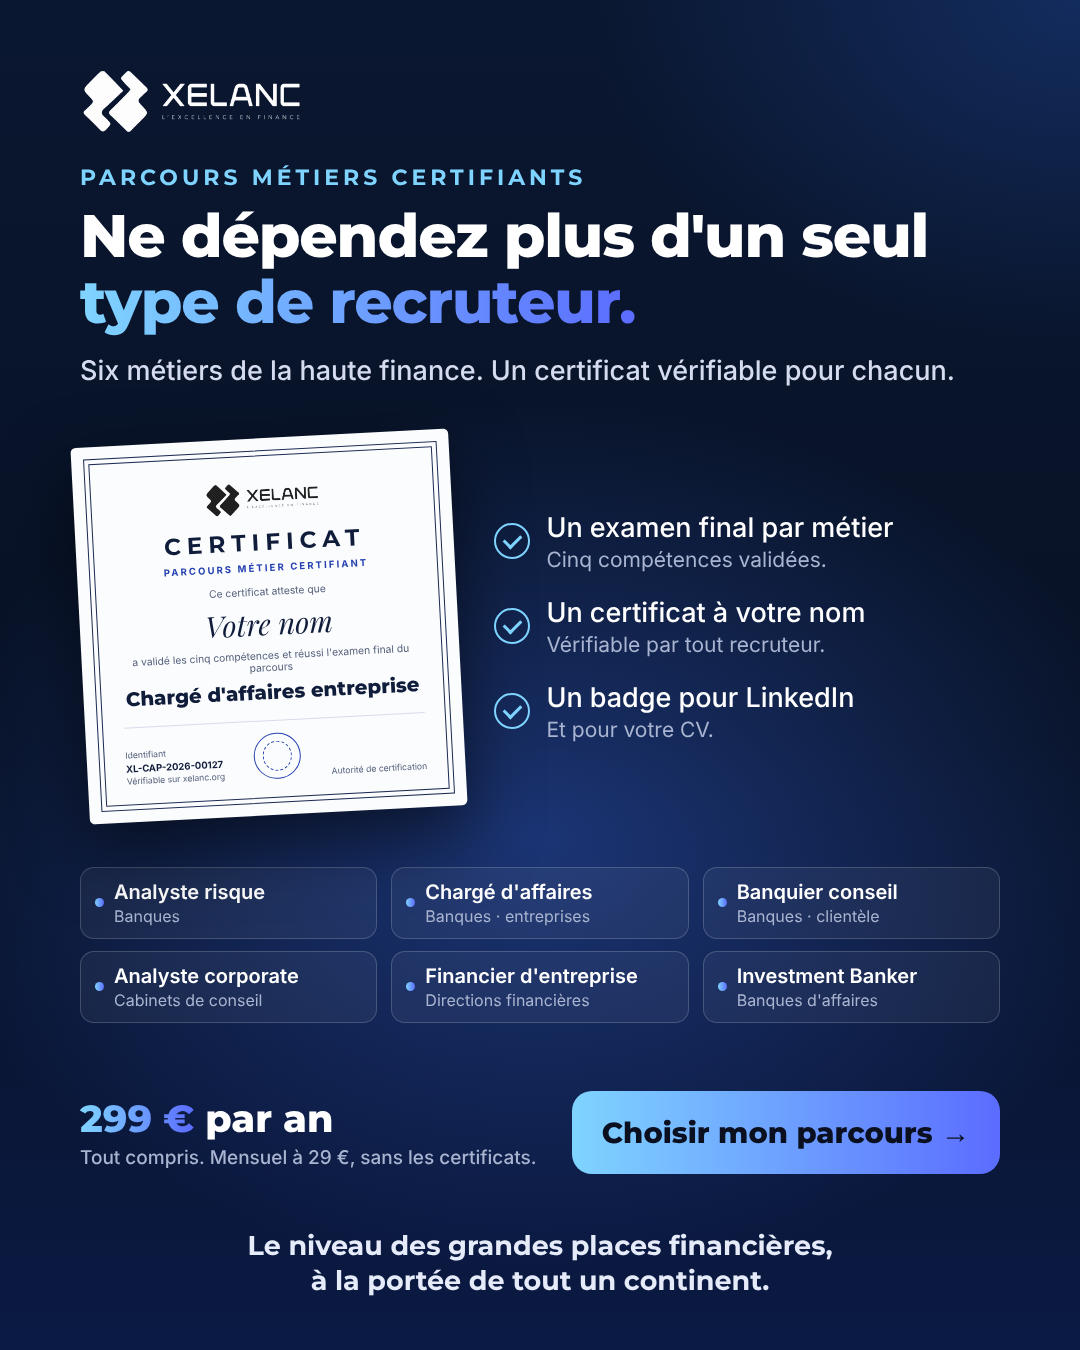
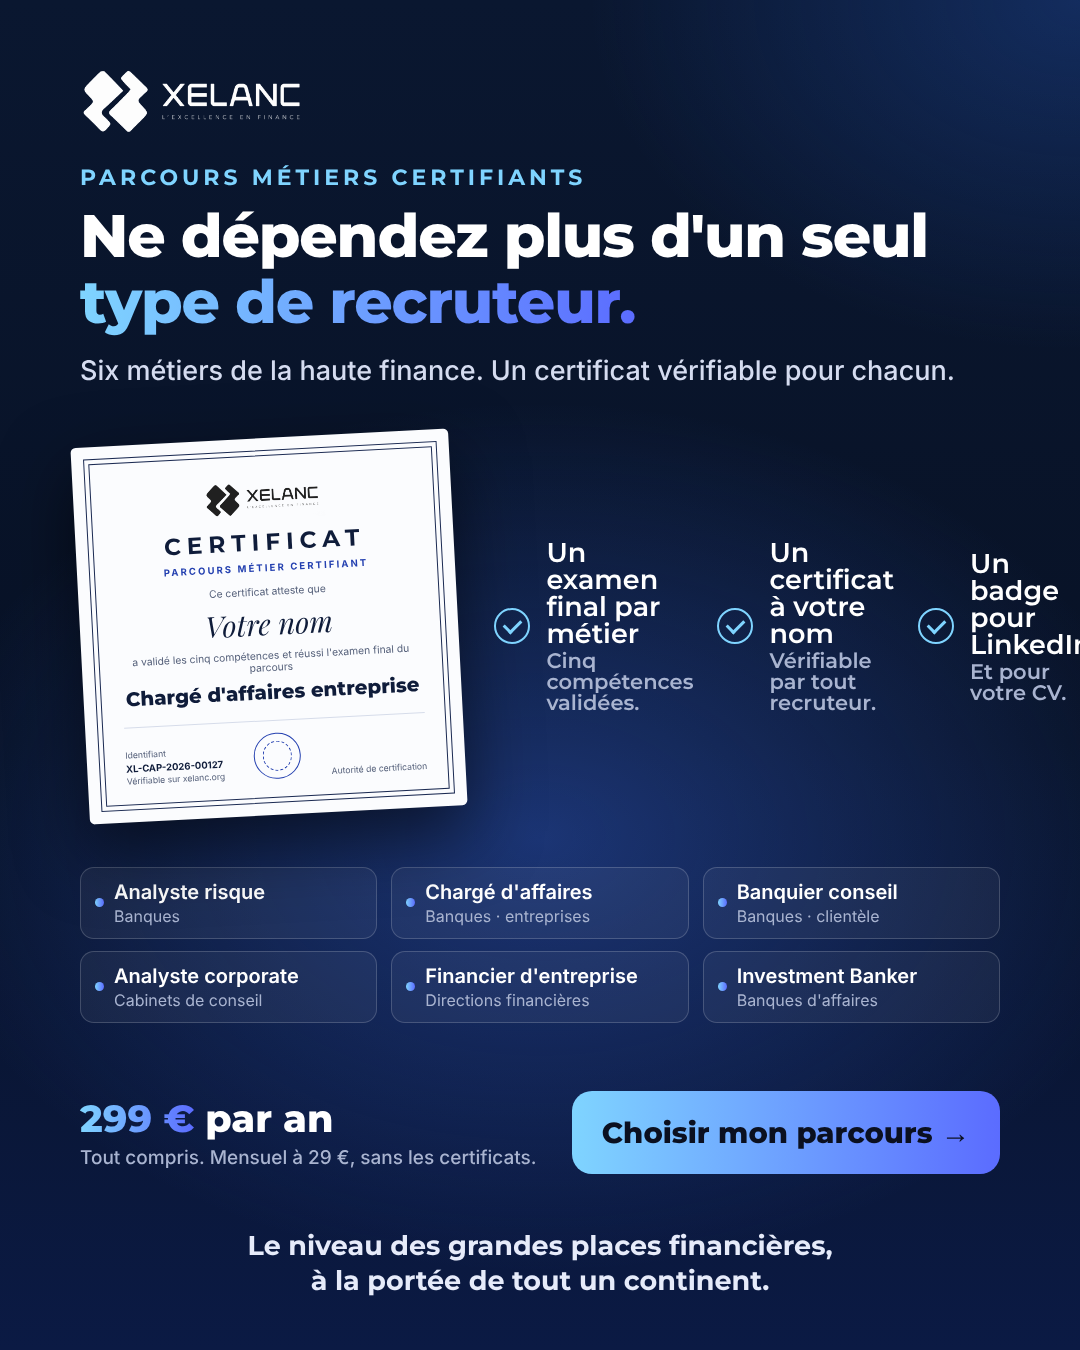
Ajoute le visuel tout inclus contre une seule inscription
Claude-Session: https://claude.ai/code/session_01LXovPUf4KLwN8kSMXa7eXm

Changed region(s): [[0.4583, 0.3733, 0.825, 0.56], [0.8556, 0.4044, 1.0, 0.5289]]

diff --git a/excellence/ads/retargeting/src/v1-tout.html b/excellence/ads/retargeting/src/v1-tout.html
@@ -1,0 +1,35 @@
+<!doctype html>
+<html lang="fr"><head><meta charset="utf-8"><link rel="stylesheet" href="style.css"></head>
+<body class="compact center k">
+  <div class="bx">
+    <div class="bx-logo"><img src="logo-navy-trim.png" alt="Xelanc"><span class="fit bx-tag">L'EXCELLENCE EN FINANCE</span></div>
+    <div class="fit bx-l1">Tout pour monter en compétences</div>
+    <div class="fit bx-l2">EN HAUTE FINANCE</div>
+  </div>
+
+  <div class="tiles">
+    <div class="tile"><i class="tick"></i><div>6 parcours métiers certifiants<small>Banque, conseil, direction financière</small></div></div>
+    <div class="tile"><i class="tick"></i><div>Tous les cours<small>Plus de 100 cours, sans supplément</small></div></div>
+    <div class="tile"><i class="tick"></i><div>Les examens et les certificats<small>Un certificat vérifiable par métier</small></div></div>
+    <div class="tile"><i class="tick"></i><div>L'évaluation des compétences<small>Pour savoir où vous en êtes</small></div></div>
+    <div class="tile"><i class="tick"></i><div>Les modèles Excel et les guides<small>Prêts à utiliser au travail</small></div></div>
+    <div class="tile"><i class="tick"></i><div>Le tuteur IA<small>À vos côtés à chaque étape</small></div></div>
+  </div>
+
+  <div class="card">
+    <div class="pill">Tout cela, avec</div>
+    <div class="one"><b class="grad">1</b> seule inscription</div>
+    <div class="offer">
+      <div class="price">
+        <span class="big grad">299&nbsp;€</span><span class="per">&nbsp;pour 12 mois</span>
+      </div>
+    </div>
+    <div class="cta">Je m'inscris →</div>
+  </div>
+
+  <p class="alt">Ou <b>29&nbsp;€ par mois</b>, pour commencer par les cours.</p>
+
+  <div class="spacer"></div>
+  <p class="sign">Le niveau des grandes places financières,<br>à la portée de tout un continent.</p>
+  <p class="fine">Remboursé sous 5 jours si aucun certificat n'a été délivré.</p>
+</body></html>

diff --git a/excellence/ads/retargeting/src/style.css b/excellence/ads/retargeting/src/style.css
@@ -374,3 +374,18 @@ body.box { --W: 520px; padding-top: 56px; padding-bottom: 50px; }
 .box .price .per { font-size: 26px; }
 .steps { padding: 16px 0 10px; }
 .center.compact.k.box .steps + .incl { margin-top: 20px; }
+
+/* visuel « tout inclus, une seule inscription » */
+.tiles { display: grid; grid-template-columns: 1fr 1fr; gap: 14px 16px; margin-top: 44px; text-align: left; }
+.tile { display: flex; align-items: center; gap: 16px; padding: 16px 20px; border-radius: 18px; background: var(--tile-bg, rgba(255,255,255,.06)); border: 1.5px solid var(--strip-line, rgba(255,255,255,.2)); font-size: 23px; font-weight: 700; line-height: 1.2; color: var(--fg, #fff); }
+.tile small { display: block; font-size: 18px; font-weight: 400; color: var(--strip-muted, #a9b4d0); margin-top: 3px; }
+.tile .tick { border-color: var(--tick, var(--g1)); }
+.tile .tick::after { border-color: var(--tick, var(--g1)); }
+body.b-gris { --tile-bg: #ffffff; --tick: #1f6fff; }
+body.b-blanc { --tile-bg: #f3f6fc; --tick: #1f6fff; }
+.one { font-family: Montserrat, sans-serif; font-weight: 800; font-size: 54px; line-height: 1; display: flex; align-items: center; justify-content: center; gap: 18px; color: var(--card-fg, #fff); }
+.one b { font-weight: 900; font-size: 96px; letter-spacing: -3px; background: var(--card-grad, var(--grad)); -webkit-background-clip: text; background-clip: text; color: transparent; }
+.tout .box-fix { display: none; }
+.center.compact.k.box.tout .card { margin-top: 62px; padding-top: 46px; }
+.center.compact.k.box.tout .price .big { font-size: 68px; }
+.center.compact.k.box.tout .offer { margin-top: 10px; }

diff --git a/excellence/ads/retargeting/src/render.js b/excellence/ads/retargeting/src/render.js
@@ -20,6 +20,8 @@ const jobs = [
   ['v1-box.html', 'v1-box-blanc.png', null, 'bg b-blanc framed box'],
   ['v1-inscription.html', 'v1-inscription-gris.png', null, 'bg b-gris framed box'],
   ['v1-inscription.html', 'v1-inscription-blanc.png', null, 'bg b-blanc framed box'],
+  ['v1-tout.html', 'v1-tout-gris.png', null, 'bg b-gris framed box tout'],
+  ['v1-tout.html', 'v1-tout-blanc.png', null, 'bg b-blanc framed box tout'],
 ];
 
 (async () => {
